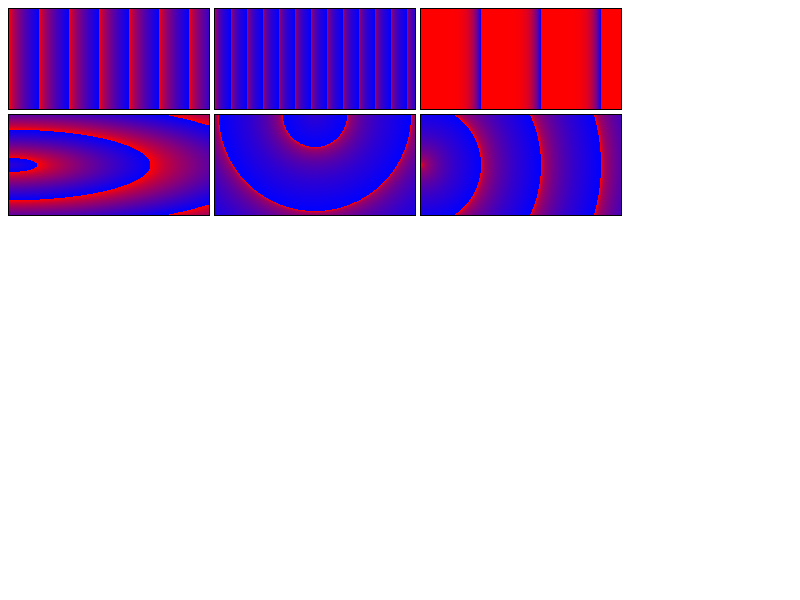
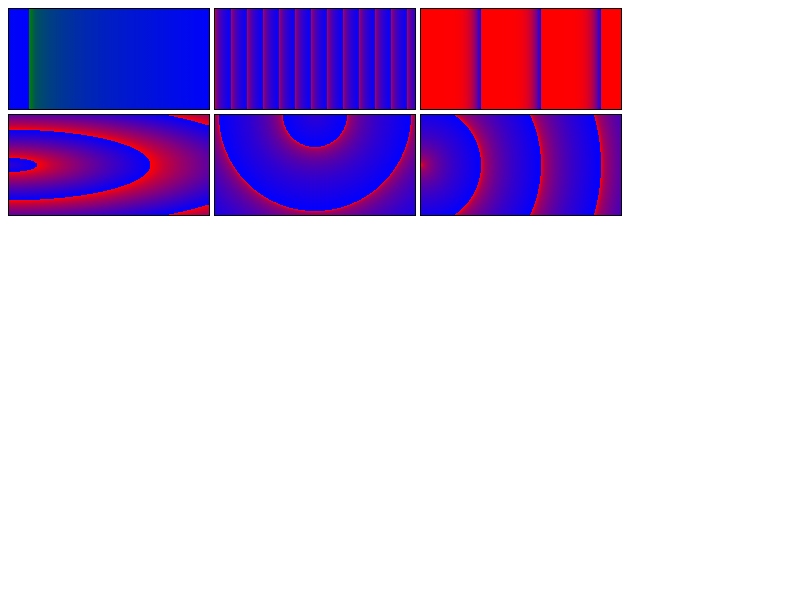
Re-enable unprefixed-repeating-gradient-color-hint.html
This test would still fail on some linux builders so the linear gradient
has been adjusted to avoid platform-specific subpixel differences while
still testing the same behavior.

Bug: 1200134
Auto-Submit: Philip Rogers <pdr@chromium.org>
Commit-Queue: Philip Rogers <pdr@chromium.org>
Cr-Commit-Position: refs/heads/main@{#982393}
NOKEYCHECK=True
GitOrigin-RevId: 5712f0c251f0fcac09a45c0ebb471930fe3f99a3

Changed region(s): [[0.0, 0.0, 0.2812, 0.18]]

diff --git a/blink/web_tests/fast/gradients/unprefixed-repeating-gradient-color-hint.html b/blink/web_tests/fast/gradients/unprefixed-repeating-gradient-color-hint.html
@@ -11,7 +11,7 @@
     }
 
     .linear1 {
-      background-image: repeating-linear-gradient(to right, red 90%, 95%, blue 105%);
+      background-image: repeating-linear-gradient(to right, green 10%, 20%, blue 105%);
     }
 
     .linear2 {
